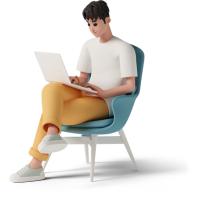
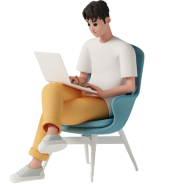
haha

diff --git a/resto/lib/view/screen/rechargepage.dart b/resto/lib/view/screen/rechargepage.dart
@@ -1,5 +1,6 @@
 import 'package:flutter/material.dart';
 import 'package:get/get.dart';
+import 'package:resto/core/constant/imageasset.dart';
 
 import '../../controller/login.dart';
 import '../../core/constant/color.dart';
@@ -17,79 +18,96 @@ class Recharge extends StatelessWidget {
     WidgetsBinding.instance.addPostFrameCallback((_) {
       controller.email.clear();
     });
+
     return Scaffold(
       appBar: const CustomAppBar(title: 'Rechargez le Compte'),
-      body: Container(
-        decoration: const BoxDecoration(
-          gradient: RadialGradient(
-            center: Alignment.center,
-            radius: 0.8,
-            colors: [
-              ColorApp.bleufata7,
-              ColorApp.primaryColor,
-            ],
-          ),
-        ),
-        child: Center(
-          child: Container(
-            height: 400,
-            width: 350,
-            padding: const EdgeInsets.all(16.0),
-            decoration: BoxDecoration(
-              color: ColorApp.white,
-              borderRadius: BorderRadius.circular(10.0),
-              boxShadow: const [
-                BoxShadow(
-                  color: Colors.black26,
-                  blurRadius: 10.0,
-                  offset: Offset(0, 5),
-                ),
-              ],
-            ),
-            child: Column(
-              crossAxisAlignment: CrossAxisAlignment.stretch,
-              children: [
-                TextFormAuth(
-                  isNumber: false,
-                  valid: (val) {
-                    return validInput(val!, "solde", 1, 3);
-                  },
-                  text: "Solde",
-                  hinttext: "Entrez le montant de la recharge",
-                  iconData: Icons.money_rounded,
-                  mycontroller: controller.email,
-                ),
-                const SizedBox(height: 20),
-                Text(
-                  'Select Payment Method',
-                  style: Theme.of(context).textTheme.bodyMedium?.copyWith(
-                        color: ColorApp.gris8ama9,
-                      ),
-                ),
-                const SizedBox(height: 10),
-                DropdownButton<String>(
-                  hint: const Text('Select Payment Method'),
-                  items: ['Sure Place'].map((String value) {
-                    return DropdownMenuItem<String>(
-                      value: value,
-                      child: Text(value),
-                    );
-                  }).toList(),
-                  onChanged: (String? value) {
-                    // Handle payment method selection
-                  },
-                ),
-                const SizedBox(height: 30),
-                AuthButton(
-                  text: "Recharge",
-                  onPressed: () {
-                    // controller.login();
-                  },
-                ),
-              ],
+      body: Stack(
+        children: [
+          Container(
+            decoration: const BoxDecoration(
+              gradient: RadialGradient(
+                center: Alignment.center,
+                radius: 0.8,
+                colors: [
+                  ColorApp.bleufata7,
+                  ColorApp.primaryColor,
+                ],
+              ),
             ),
           ),
-        ),
+          Positioned(
+            top: 160,
+            left: 30,
+            child: Container(
+              height: 390,
+              width: 350,
+              padding: const EdgeInsets.all(16.0),
+              decoration: BoxDecoration(
+                color: ColorApp.white,
+                borderRadius: BorderRadius.circular(10.0),
+                boxShadow: const [
+                  BoxShadow(
+                    color: Colors.black26,
+                    blurRadius: 10.0,
+                    offset: Offset(0, 5),
+                  ),
+                ],
+              ),
+              child: Column(
+                crossAxisAlignment: CrossAxisAlignment.stretch,
+                children: [
+                  TextFormAuth(
+                    isNumber: false,
+                    valid: (val) {
+                      return validInput(val!, "solde", 1, 3);
+                    },
+                    text: "Solde",
+                    hinttext: "Entrez le montant de la recharge",
+                    iconData: Icons.money_rounded,
+                    mycontroller: controller.email,
+                  ),
+                  const SizedBox(height: 20),
+                  Text(
+                    'Select Payment Method',
+                    style: Theme.of(context).textTheme.bodyMedium?.copyWith(
+                          color: ColorApp.gris8ama9,
+                        ),
+                  ),
+                  const SizedBox(height: 10),
+                  DropdownButton<String>(
+                    hint: const Text('Select Payment Method'),
+                    items: ['Sure Place'].map((String value) {
+                      return DropdownMenuItem<String>(
+                        value: value,
+                        child: Text(value),
+                      );
+                    }).toList(),
+                    onChanged: (String? value) {
+                      // Handle payment method selection
+                    },
+                  ),
+                  const SizedBox(height: 30),
+                  AuthButton(
+                    text: "Recharge",
+                    onPressed: () {
+                      // controller.login();
+                    },
+                  ),
+                ],
+              ),
+            ),
+          ),
+          Positioned(
+            top: -30,
+            left: 0,
+            right: 0,
+            child: Image.asset(
+              ImageAsset.recharge,
+              height: 250,
+              width: 250,
+            ),
+          ),
+        ],
       ),
     );
   }

diff --git a/resto/lib/view/screen/auth/auth.dart b/resto/lib/view/screen/auth/auth.dart
@@ -8,6 +8,7 @@ import '../../../core/functions/validinput.dart';
 import '../../widget/auth/authbutom.dart';
 import '../../widget/auth/logoauth.dart';
 import '../../widget/auth/textformauth.dart';
+import '../../widget/auth/titleauth.dart';
 
 class Auth extends StatelessWidget {
   const Auth({super.key});
@@ -26,14 +27,11 @@ class Auth extends StatelessWidget {
             child: ListView(
               children: [
                 const LogoAuth(),
-                Text(
-                  "Application mobile parentale",
-                  textAlign: TextAlign.start,
-                  style: Theme.of(context).textTheme.headlineMedium?.copyWith(
-                        color: ColorApp.bleu,
-                      ),
+                Titleauth(
+                  headline: "10".tr,
+                  text: "11".tr,
                 ),
-                const SizedBox(height: 30),
+                const SizedBox(height: 10),
                 TextFormAuth(
                   isNumber: false,
                   valid: (val) {
@@ -67,9 +65,10 @@ class Auth extends StatelessWidget {
                     child: Text(
                       "Mot de passe oublié ?",
                       textAlign: TextAlign.end,
-                      style: Theme.of(context).textTheme.bodyMedium?.copyWith(
-                            color: ColorApp.marron,
-                          ),
+                      style: Theme.of(context)
+                          .textTheme
+                          .bodyMedium
+                          ?.copyWith(color: ColorApp.gris8ama9),
                     )),
                 AuthButton(
                   text: "Se connecter",

diff --git a/resto/lib/view/screen/splash.dart b/resto/lib/view/screen/splash.dart
@@ -19,30 +19,35 @@ class Splash extends GetView<SplashControllerImp> {
     }));
 
     return Scaffold(
-      backgroundColor: ColorApp.white,
+      backgroundColor: ColorApp.white, // Set the background color
       body: Center(
         child: Column(
           mainAxisAlignment: MainAxisAlignment.center,
           children: [
+            // Improved animation for the logo
             AnimatedPositioned(
-              duration: const Duration(seconds: 3),
+              duration: const Duration(seconds: 2),
               curve: Curves.easeInOut,
               top: top1,
               child: Image.asset(
                 ImageAsset.splash,
-                scale: 2,
-                fit: BoxFit.fill,
+                scale: 1.5, // Adjust the scale for your logo
+                fit: BoxFit.contain, // Use 'contain' for logos
               ),
             ),
-            const SizedBox(
-              height: 50,
-            ),
+            const SizedBox(height: 20), // Reduce the spacing
+
+            // Improved animation for the welcome text
             AnimatedPositioned(
-              duration: const Duration(seconds: 3),
+              duration: const Duration(seconds: 2),
               curve: Curves.easeInOut,
               top: top2,
-              child: Text('Bienvenue',
-                  style: Theme.of(context).textTheme.titleLarge),
+              child: Text(
+                'Bienvenue',
+                style: Theme.of(context).textTheme.headlineLarge?.copyWith(
+                      color: ColorApp.bleu,
+                    ),
+              ),
             ),
           ],
         ),

diff --git a/resto/lib/view/widget/auth/titleauth.dart b/resto/lib/view/widget/auth/titleauth.dart
@@ -17,7 +17,7 @@ class Titleauth extends StatelessWidget {
         Text(
           headline,
           textAlign: TextAlign.start,
-          style: Theme.of(context).textTheme.headline3?.copyWith(
+          style: Theme.of(context).textTheme.headlineLarge?.copyWith(
                 color: ColorApp.primaryColor,
               ),
         ),
@@ -25,7 +25,9 @@ class Titleauth extends StatelessWidget {
         Text(
           text,
           textAlign: TextAlign.start,
-          style: Theme.of(context).textTheme.bodyText2,
+          style: Theme.of(context).textTheme.bodyMedium?.copyWith(
+                color: ColorApp.bleu,
+              ),
         ),
       ],
     );

diff --git a/resto/lib/view/widget/details/chart.dart b/resto/lib/view/widget/details/chart.dart
@@ -67,9 +67,12 @@ class TransactionChart extends StatelessWidget {
         return FlSpot(index.toDouble(), transactions[index].price);
       }),
       isCurved: true,
-      colors: [ColorApp.black],
+      colors: [ColorApp.gris8ama9],
       dotData: FlDotData(show: true),
-      belowBarData: BarAreaData(show: false),
+      belowBarData: BarAreaData(
+        show: true,
+        colors: [Color.fromARGB(75, 1, 29, 112)], // Set the color here
+      ),
       aboveBarData: BarAreaData(show: false),
     );
   }

diff --git a/resto/lib/core/constant/imageasset.dart b/resto/lib/core/constant/imageasset.dart
@@ -4,6 +4,8 @@ class ImageAsset {
   static const String splash =
       "$rootImages/young boys and young girl jumping.png";
   static const String logo = "$rootImages/logo.png";
+  static const String recharge =
+      "$rootImages/young man with laptop on chair.png";
   static const String appbar = "$rootImages/appbar.png";
   static const String boy1 = "$rootImages/boy1.png";
   static const String girl1 = "$rootImages/girl1.png";

diff --git a/resto/lib/view/widget/auth/textformauth.dart b/resto/lib/view/widget/auth/textformauth.dart
@@ -53,7 +53,7 @@ class TextFormAuth extends StatelessWidget {
               ),
               floatingLabelBehavior: FloatingLabelBehavior.always,
               contentPadding: const EdgeInsets.symmetric(
-                vertical: 15,
+                vertical: 10,
                 horizontal: 10,
               ),
               suffixIcon: InkWell(
